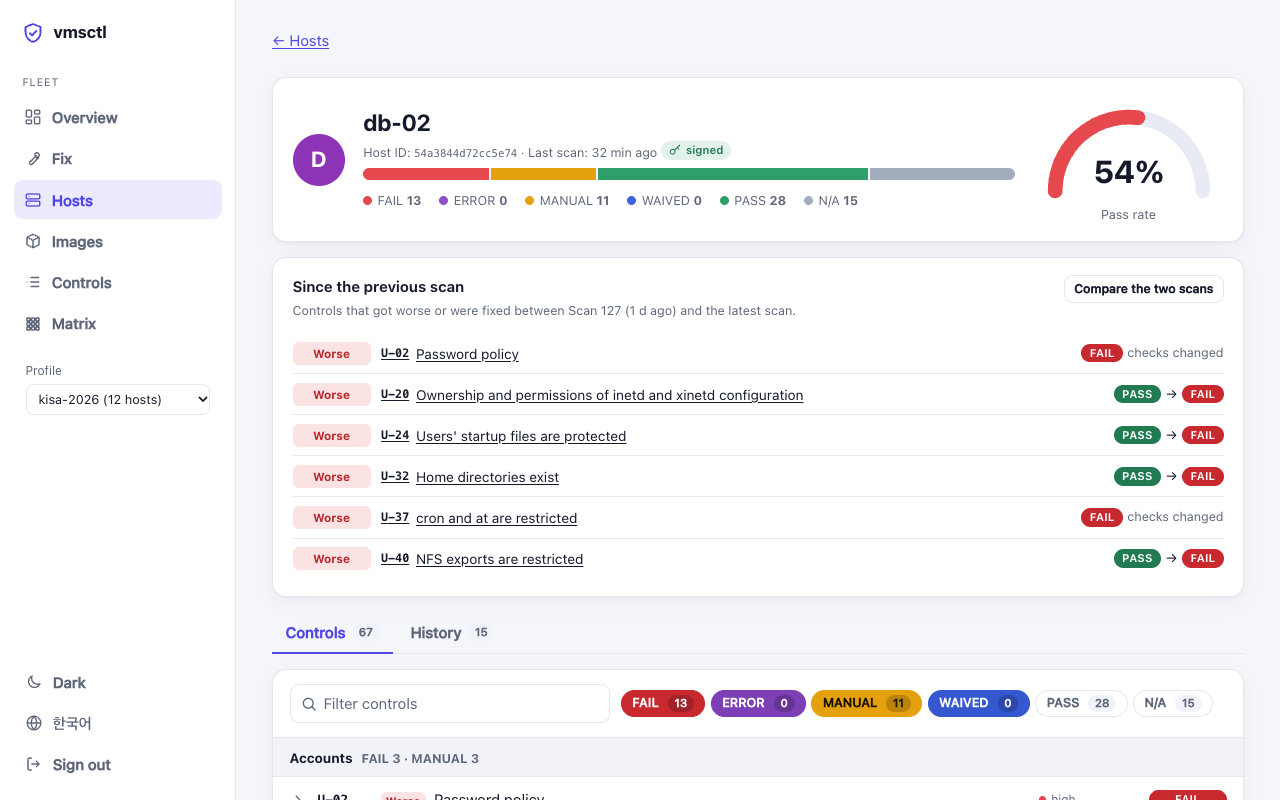
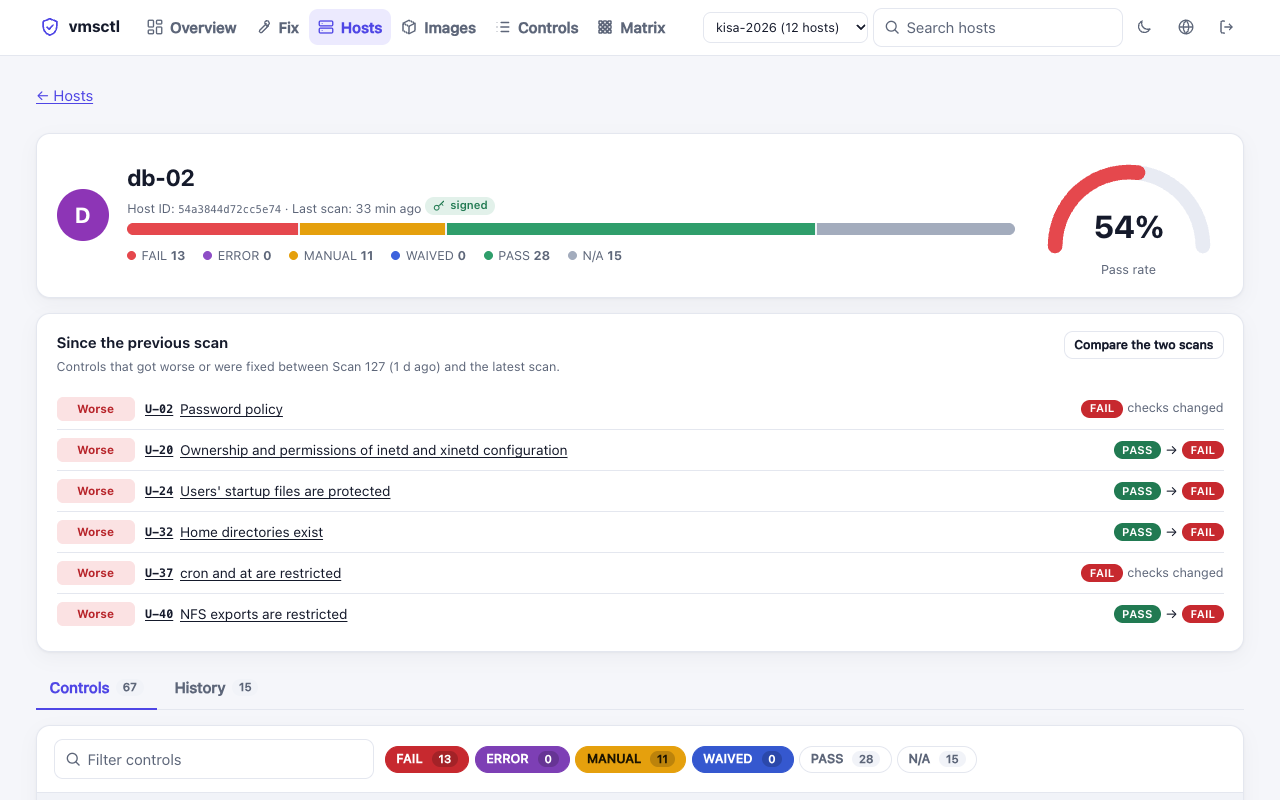
feat: dashboard: top bar instead of the sidebar (#325)
The last step of the dashboard redesign: a top bar instead of the
sidebar, so the pages get the full width.

## What

- **Top bar** (sticky): the brand, the pages (Overview, Fix, Hosts,
Images, Controls, Matrix), and on the right the profile select, a host
search (Enter opens the host list filtered by that text), and theme,
language and sign-out buttons.
- The page is centered under it and up to 1312px wide (the matrix shows
more columns).
- Narrower screens: the language button shows only its icon under
1400px, the search hides under 1180px, and the pages scroll sideways
rather than being covered. On a phone the bar has two rows: the brand
and the settings, then the pages as a tab bar (icon over label, as
before).
- What a page brings into view (a control picked in "since the previous
scan", a comparison of two scans) stays clear of the sticky bar
(`scroll-padding-top`); the remediation page's queue sticks below it.
- Texts that said "sidebar" (the message on a host of another profile,
`docs/fleet.md` and `.ko`) now say the top of the page.
- Screenshots of the six dashboard pages regenerated.

## Tests

- `make test lint`, `make build-web`.
- In the browser: axe clean and no horizontal overflow on the overview,
a host page and the remediation page in en/ko × light/dark × 1280/390;
the click from "since the previous scan" and "Compare the two scans"
still bring their targets into view; the sign-in page is unchanged.

## Review (`/code-review medium`)

Fixed:
[…]

diff --git a/web/src/styles.css b/web/src/styles.css
@@ -58,19 +58,32 @@ ul, ol { margin: 0; }
 .icon { flex: none; }
 
 /* Layout */
-.app { display: grid; grid-template-columns: 236px minmax(0, 1fr); min-height: 100vh; }
-.sidebar { position: sticky; top: 0; height: 100vh; display: flex; flex-direction: column; gap: 1.25rem; padding: 1.1rem .9rem; background: var(--surface); border-right: 1px solid var(--border); }
-.brand { display: flex; align-items: center; gap: .55rem; font-weight: 750; font-size: 1.1rem; color: var(--text); padding: .25rem .5rem; letter-spacing: -0.01em; }
+.app { min-height: 100vh; }
+/* --topbar-h: the sticky top bar's height, which what is brought into view and the remediation queue keep clear of */
+:root { --topbar-h: 4.25rem; }
+html { scroll-padding-top: var(--topbar-h); }
+/* The top bar: the brand, the pages, and on the right the profile, a host search and the settings */
+.topbar { position: sticky; top: 0; z-index: 20; background: var(--surface); border-bottom: 1px solid var(--border); }
+.topbar-in { max-width: 1312px; margin: 0 auto; display: flex; align-items: center; gap: 1rem; padding: .5rem clamp(16px, 3vw, 36px); }
+.brand { display: flex; align-items: center; gap: .5rem; font-weight: 750; font-size: 1.05rem; color: var(--text); padding: .25rem .2rem; letter-spacing: -0.01em; flex: none; }
 .brand .icon { color: var(--accent); }
 .brand:hover { text-decoration: none; }
-.sidebar nav { display: grid; gap: .15rem; }
-.nav-section { font-size: .72rem; text-transform: uppercase; letter-spacing: .08em; color: var(--muted); padding: .4rem .6rem; }
-.sidebar nav a { display: flex; align-items: center; gap: .65rem; padding: .55rem .7rem; border-radius: var(--radius-sm); color: var(--muted); font-weight: 520; }
-.sidebar nav a:hover { background: var(--surface-2); color: var(--text); text-decoration: none; }
-.sidebar nav a[aria-current="page"] { background: var(--accent-soft); color: var(--accent); }
-.sidebar-foot { margin-top: auto; display: grid; gap: .1rem; }
-.sidebar-foot button { display: flex; align-items: center; gap: .65rem; text-align: left; width: 100%; }
-main { padding: 1.6rem clamp(16px, 3vw, 36px) 3rem; max-width: 1240px; width: 100%; min-width: 0; }
+.topnav { display: flex; gap: .1rem; min-width: 0; overflow-x: auto; scrollbar-width: none; } /* too narrow: it scrolls, nothing covers it */
+.topnav a { display: flex; align-items: center; gap: .4rem; padding: .45rem .55rem; border-radius: var(--radius-sm); color: var(--muted); font-weight: 560; white-space: nowrap; }
+.topnav a:hover { background: var(--surface-2); color: var(--text); text-decoration: none; }
+.topnav a[aria-current="page"] { background: var(--accent-soft); color: var(--accent); }
+.topbar-tools { margin-left: auto; display: flex; align-items: center; gap: .3rem; flex: none; }
+.topbar-tools .icon-only { padding: .45rem; }
+.topbar-tools .lang-switch { display: flex; align-items: center; gap: .35rem; white-space: nowrap; }
+.topbar-tools .topsearch { flex: none; min-width: 0; width: 12rem; }
+@media (max-width: 1400px) { .topbar-tools .lang-switch span { display: none; } }
+/* not wide enough for the pages and the settings on one line: the pages go to a second row, with their labels */
+@media (max-width: 1240px) {
+  :root { --topbar-h: 6.9rem; }
+  .topbar-in { flex-wrap: wrap; row-gap: .25rem; }
+  .topnav { order: 3; width: 100%; }
+}
+main { padding: 1.6rem clamp(16px, 3vw, 36px) 3rem; max-width: 1312px; width: 100%; min-width: 0; margin: 0 auto; }
 .pagehead { display: flex; justify-content: space-between; align-items: flex-end; gap: 1rem; margin-bottom: 1.25rem; flex-wrap: wrap; }
 .pagehead p { margin-top: .25rem; }
 .crumb { margin-bottom: .75rem; }
@@ -261,18 +274,17 @@ table.matrix .cell:hover { outline: 2px solid var(--text); outline-offset: 0; }
   .hosthead .gauge { grid-column: 1 / -1; }
 }
 @media (max-width: 760px) {
-  /* a short page must not hand its spare height to the top bar: the rows keep their size and the page ends where it ends */
-  .app { grid-template-columns: minmax(0, 1fr); grid-template-rows: auto 1fr; }
   .hero, .hosthead { min-width: 0; }
   .gauge svg { max-width: 180px; }
   .legend { justify-content: flex-start; }
-  .sidebar { position: static; height: auto; flex-direction: row; flex-wrap: wrap; align-items: center; padding: .6rem .9rem; gap: .5rem; }
-  /* four equal tabs that always fit: icon over label, like a tab bar */
-  .sidebar nav { display: grid; grid-auto-flow: column; grid-auto-columns: 1fr; order: 3; width: 100%; gap: .25rem; }
-  .sidebar nav a { flex-direction: column; gap: .15rem; padding: .45rem .2rem; font-size: .76rem; text-align: center; }
-  .nav-section { display: none; }
-  .sidebar-foot { margin: 0 0 0 auto; display: flex; }
-  .sidebar-foot button span { display: none; }
+  /* two rows: the brand and the settings, then the pages as a tab bar (icon over label, equal widths) */
+  .topbar { position: static; }
+  html { scroll-padding-top: 0; }
+  .topbar-tools .topsearch { display: none; }
+  .topbar-in { flex-wrap: wrap; gap: .5rem; padding: .5rem 16px; }
+  .topnav { order: 3; width: 100%; display: grid; grid-auto-flow: column; grid-auto-columns: 1fr; gap: .2rem; }
+  .topnav a { flex-direction: column; gap: .15rem; padding: .4rem .15rem; font-size: .74rem; justify-content: center; }
+  .topbar-tools .profile-select select { max-width: 7.5rem; }
   .login { grid-template-columns: 1fr; }
   .login-art { display: none; }
   .control-row { grid-template-columns: 16px 3rem 1fr 6.2rem; }
@@ -291,9 +303,8 @@ table.matrix .cell:hover { outline: 2px solid var(--text); outline-offset: 0; }
 }
 @media (prefers-reduced-motion: reduce) { * { animation: none !important; transition: none !important; } }
 
-.profile-select { display: grid; gap: 4px; padding: 0 12px 12px; }
-.profile-select label { font-size: 12px; color: var(--muted); }
-.profile-select select { width: 100%; padding: 6px 8px; border: 1px solid var(--border); border-radius: 8px; background: var(--surface); color: inherit; font: inherit; font-size: .85rem; text-overflow: ellipsis; }
+.profile-select { display: flex; }
+.profile-select select { max-width: 11rem; padding: 6px 8px; border: 1px solid var(--border); border-radius: 8px; background: var(--surface); color: inherit; font: inherit; font-size: .85rem; text-overflow: ellipsis; }
 
 .scannow { display: grid; gap: .35rem; }
 .scannow-main { display: flex; flex-wrap: wrap; align-items: center; gap: .75rem; }
@@ -411,7 +422,7 @@ html[lang="ko"] .evidence, html[lang="ko"] code, html[lang="ko"] .mono { word-br
 .standard .pill { justify-self: start; }
 /* The remediation page: the queue on the left, the chosen control on the right */
 .workbench { display: grid; grid-template-columns: minmax(260px, 340px) minmax(0, 1fr); gap: 1rem; align-items: start; }
-.queue { position: sticky; top: 1rem; max-height: calc(100vh - 2rem); display: flex; flex-direction: column; }
+.queue { position: sticky; top: calc(var(--topbar-h) + .5rem); max-height: calc(100vh - var(--topbar-h) - 1.5rem); display: flex; flex-direction: column; }
 .queue-filters { display: grid; gap: .5rem; padding: .8rem; border-bottom: 1px solid var(--border); }
 .workbench-main .fixhosts-head { margin: 0; padding: .9rem 1.1rem .5rem; font-size: .95rem; }
 .queue-filters .search { width: 100%; }

diff --git a/web/src/App.tsx b/web/src/App.tsx
@@ -3,7 +3,8 @@ import { api, setUnauthorizedHandler } from "./lib/api";
 import { useAsync, useHash } from "./lib/hooks";
 import { ProfileProvider, useProfile } from "./lib/profile";
 import { useI18n } from "./lib/i18n";
-import { parseRoute } from "./lib/format";
+import { hostsAddress, imagesAddress, parseHostsView, parseImagesView, parseRoute } from "./lib/format";
+import { lastListAddress } from "./lib/listAddress";
 import { Login } from "./pages/Login";
 import { OverviewPage } from "./pages/Overview";
 import { HostsPage } from "./pages/Hosts";
@@ -12,7 +13,7 @@ import { MatrixPage } from "./pages/Matrix";
 import { ImagesPage } from "./pages/Images";
 import { ControlPage, ControlsPage } from "./pages/Controls";
 import { FixPage } from "./pages/Fix";
-import { IconBox, IconGlobe, IconGrid, IconList, IconLogout, IconMoon, IconOverview, IconServer, IconShield, IconSun, IconWrench } from "./components/icons";
+import { IconBox, IconGlobe, IconGrid, IconList, IconLogout, IconMoon, IconOverview, IconSearch, IconServer, IconShield, IconSun, IconWrench } from "./components/icons";
 
 type Auth = "checking" | "in" | "out" | "failed";
 
@@ -102,7 +103,7 @@ export function App() {
   );
 }
 
-/** The sidebar and the page, once the person is signed in and the profiles are known. */
+/** The top bar and the page, once the person is signed in and the profiles are known. */
 function Shell({ hash, dark, toggleTheme, logout }: { hash: string; dark: boolean; toggleTheme: () => void; logout: () => void }) {
   const { t, toggle } = useI18n();
   const { list, selected, select } = useProfile();
@@ -120,6 +121,7 @@ function Shell({ hash, dark, toggleTheme, logout }: { hash: string; dark: boolea
   else if (page === "fix") view = <FixPage profile={arg} id={arg2} />;
   else view = <OverviewPage />;
   const current = page === "hosts" || page === "matrix" || page === "controls" || page === "images" || page === "fix" ? page : "overview";
+  const searchImages = current === "images"; // on the images, the top search looks for images
 
   const nav: [string, string, string, JSX.Element][] = [
     ["overview", "#/", t("nav.overview"), <IconOverview key="o" />],
@@ -133,49 +135,66 @@ function Shell({ hash, dark, toggleTheme, logout }: { hash: string; dark: boolea
 
   return (
     <div className="app">
-      <aside className="sidebar">
-        <a className="brand" href="#/">
-          <IconShield size={24} />
-          <span>{t("app.name")}</span>
-        </a>
-        <nav aria-label={t("nav.section")}>
-          <span className="nav-section">{t("nav.section")}</span>
-          {nav.map(([key, href, label, icon]) => (
-            <a key={key} href={href} aria-current={current === key ? "page" : undefined}>
-              {icon}
-              <span>{label}</span>
-            </a>
-          ))}
-        </nav>
-        {list && list.profiles.length > 1 && (
-          <div className="profile-select">
-            <label htmlFor="profile">{t("profile.label")}</label>
-            <select id="profile" value={selected} onChange={(e) => select(e.target.value)}>
-              {list.profiles.map((p) => (
-                <option key={p.id} value={p.id}>
-                  {p.id} ({t("profile.hosts", { n: p.fleet?.hosts ?? p.hosts })})
-                </option>
-              ))}
-            </select>
-          </div>
-        )}
-        <div className="sidebar-foot">
-          <button className="ghost" onClick={toggleTheme} aria-label={dark ? t("theme.light") : t("theme.dark")} title={dark ? t("theme.light") : t("theme.dark")}>
-            {dark ? <IconSun /> : <IconMoon />}
-            <span>{dark ? t("theme.light") : t("theme.dark")}</span>
-          </button>
-          <button className="ghost" onClick={toggle} aria-label={t("lang.switch")} title={t("lang.switch")}>
-            <IconGlobe />
-            <span>{t("lang.switch")}</span>
-          </button>
-          {!DEMO && (
-            <button className="ghost" onClick={logout} aria-label={t("nav.logout")} title={t("nav.logout")}>
-              <IconLogout />
-              <span>{t("nav.logout")}</span>
+      <header className="topbar">
+        <div className="topbar-in">
+          <a className="brand" href="#/">
+            <IconShield size={22} />
+            <span>{t("app.name")}</span>
+          </a>
+          <nav className="topnav" aria-label={t("nav.section")}>
+            {nav.map(([key, href, label, icon]) => (
+              <a key={key} href={href} aria-current={current === key ? "page" : undefined}>
+                {icon}
+                <span>{label}</span>
+              </a>
+            ))}
+          </nav>
+          <div className="topbar-tools">
+            {list && list.profiles.length > 1 && (
+              <div className="profile-select">
+                <label htmlFor="profile" className="sr-only">
+                  {t("profile.label")}
+                </label>
+                <select id="profile" value={selected} onChange={(e) => select(e.target.value)} title={t("profile.label")}>
+                  {list.profiles.map((p) => (
+                    <option key={p.id} value={p.id}>
+                      {p.id} ({t("profile.hosts", { n: p.fleet?.hosts ?? p.hosts })})
+                    </option>
+                  ))}
+                </select>
+              </div>
+            )}
+            <form
+              className="topsearch search"
+              role="search"
+              onSubmit={(e) => {
+                e.preventDefault();
+                const q = String(new FormData(e.currentTarget).get("q") ?? "").trim();
+                // the list's own filters stay; the list's search box takes the text from here, so this one empties
+                location.hash = searchImages
+                  ? imagesAddress({ ...parseImagesView(lastListAddress("images")), q })
+                  : hostsAddress({ ...parseHostsView(lastListAddress("hosts")), q });
+                e.currentTarget.reset();
+              }}
+            >
+              <IconSearch />
+              <input type="search" name="q" placeholder={t(searchImages ? "top.searchImages" : "top.search")} aria-label={t(searchImages ? "top.searchImages" : "top.search")} />
+            </form>
+            <button className="ghost icon-only" onClick={toggleTheme} aria-label={dark ? t("theme.light") : t("theme.dark")} title={dark ? t("theme.light") : t("theme.dark")}>
+              {dark ? <IconSun /> : <IconMoon />}
             </button>
-          )}
+            <button className="ghost lang-switch" onClick={toggle} aria-label={t("lang.switch")} title={t("lang.switch")}>
+              <IconGlobe />
+              <span>{t("lang.switch")}</span>
+            </button>
+            {!DEMO && (
+              <button className="ghost icon-only" onClick={logout} aria-label={t("nav.logout")} title={t("nav.logout")}>
+                <IconLogout />
+              </button>
+            )}
+          </div>
         </div>
-      </aside>
+      </header>
       <main key={selected}>
         {DEMO && (
           <p className="demo-banner" role="note">

diff --git a/web/src/lib/i18n.tsx b/web/src/lib/i18n.tsx
@@ -6,6 +6,8 @@ const en = {
   "app.name": "vmsctl",
   "nav.overview": "Overview",
   "nav.fix": "Fix",
+  "top.search": "Search hosts",
+  "top.searchImages": "Search images",
   "fix.title": "Fix",
   "fix.subtitle": "The failing controls in the order to fix them, with how to fix each and the hosts to fix it on.",
   "fix.queue": "Controls to fix",
@@ -180,7 +182,7 @@ const en = {
   "profile.hosts": "{n} hosts",
   "profile.other": "{n} hosts scanned with another profile are not counted here. Pick that profile to see them.",
   "profile.otherHost": "another profile",
-  "profile.hostOther": "The latest scan of this host is of {profiles}. Choose that profile in the sidebar to see its controls.",
+  "profile.hostOther": "The latest scan of this host is of {profiles}. Choose that profile at the top of the page to see its controls.",
   "hosts.sortBy": "Sort",
   "hosts.more": "Show more",
   "hosts.showing": "Showing {n} of {total}",
@@ -222,6 +224,8 @@ const ko: Record<Key, string> = {
   "app.name": "vmsctl",
   "nav.overview": "개요",
   "nav.fix": "조치",
+  "top.search": "호스트 검색",
+  "top.searchImages": "이미지 검색",
   "fix.title": "조치",
   "fix.subtitle": "실패한 점검 항목을 고칠 순서대로 놓고, 항목마다 고치는 방법과 고칠 호스트를 함께 보여 줍니다.",
   "fix.queue": "고칠 점검 항목",
@@ -396,7 +400,7 @@ const ko: Record<Key, string> = {
   "profile.hosts": "호스트 {n}대",
   "profile.other": "다른 프로파일로 스캔한 호스트 {n}대는 여기에 집계하지 않습니다. 그 프로파일을 고르면 볼 수 있습니다.",
   "profile.otherHost": "다른 프로파일",
-  "profile.hostOther": "이 호스트의 최신 스캔은 {profiles} 프로파일 기준입니다. 사이드바에서 해당 프로파일을 고르면 점검 항목을 볼 수 있습니다.",
+  "profile.hostOther": "이 호스트의 최신 스캔은 {profiles} 프로파일 기준입니다. 화면 위쪽에서 해당 프로파일을 고르면 점검 항목을 볼 수 있습니다.",
   "hosts.sortBy": "정렬",
   "hosts.more": "더 보기",
   "hosts.showing": "{total}대 중 {n}대 표시",

diff --git a/README.ko.md b/README.ko.md
@@ -1,4 +1,4 @@
-<!-- translated from README.md @ 0917488 -->
+<!-- translated from README.md @ 4450d37 -->
 # vmsctl
 
 [![CI](https://github.com/with-developer/vmsctl/actions/workflows/ci.yml/badge.svg)](https://github.com/with-developer/vmsctl/actions/workflows/ci.yml)
@@ -63,7 +63,7 @@ kisa-2026: 67 controls — 10 FAIL, 11 MANUAL, 29 PASS, 17 NOT_APPLICABLE
 호스트가 스스로 점검하고 결과를 `vmsctl server`로 보내면, 서버가 이력을 쌓아 두고 웹 대시보드로
 보여 줍니다. 영어와 한국어, 라이트·다크 테마, 휴대폰 화면을 지원합니다.
 
-![vmsctl 대시보드 투어: 개요, 호스트, 근거와 조치 방법이 있는 호스트, 점검 항목, 매트릭스, 한국어](docs/demo/dashboard-tour.gif)
+![vmsctl 대시보드 투어: 먼저 고칠 것과 기준별 현황이 있는 개요, 조치 화면, 호스트의 지난 스캔 이후 변화와 근거, 점검 항목, 매트릭스, 한국어](docs/demo/dashboard-tour.gif)
 
 ```sh
 vmsctl server demo      # 가상의 호스트 12대로 둘러보기. 실제로 점검하거나 저장하지 않습니다. 출력된 주소를 여세요

diff --git a/docs/fleet.md b/docs/fleet.md
@@ -251,7 +251,7 @@ your proxy: check it against its documentation. Things to know:
 Hosts may scan with different profiles (`--profile`, `essentials`, a policy pack), so every number of the dashboard is of
 **one profile**: the overview, the host list, the matrix and the control list take `?profile=ID` and, without it, use the
 profile that most hosts scanned with (**a script that read these calls without `profile` before v0.19 now reads one profile: pass `?profile=all` for every profile added up, as before**). A host whose latest scan has none of its controls is not counted in the numbers (a silent host is still counted as stale, whatever it scanned with): the dashboard
-says how many such hosts there are and marks them in the list. In the dashboard a selector in the sidebar picks the
+says how many such hosts there are and marks them in the list. In the dashboard a selector in the top bar picks the
 profile (and remembers it) when there is more than one.
 
 A read token (`--scope api`) lets a script or CI ask the server what it knows:

diff --git a/docs/fleet.ko.md b/docs/fleet.ko.md
@@ -1,4 +1,4 @@
-<!-- translated from docs/fleet.md @ 0917488 -->
+<!-- translated from docs/fleet.md @ 1c47549 -->
 # 서버로 모아 보기
 
 > 설계는 [ADR 0010](adr/0010-fleet-server-and-dashboard.md)에 있습니다. 호스트가 결과를 보내고, 서버가 저장해 두었다가 조회
@@ -288,7 +288,7 @@ server {
 
 최신 스캔에 그 프로파일의 점검 항목이 하나도 없는 호스트는 숫자에 넣지 않습니다(보고를 멈춘 호스트는 어떤
 프로파일로 스캔했든 보고가 끊긴(stale) 호스트로 셉니다). 대시보드는 이런 호스트가 몇 대인지 알려 주고 목록에 표시합니다.
-프로파일이 둘 이상이면 사이드바의 선택기로 프로파일을 고르고, 고른 값은 기억합니다.
+프로파일이 둘 이상이면 화면 위쪽의 선택기로 프로파일을 고르고, 고른 값은 기억합니다.
 
 조회 토큰(`--scope api`)이 있으면 스크립트나 CI에서도 서버가 아는 것을 물어볼 수 있습니다.
 

diff --git a/README.md b/README.md
@@ -62,7 +62,7 @@ telnet service added (the host name is shortened).
 Hosts scan themselves and push the result to `vmsctl server`, which keeps the history and shows the
 fleet in a web dashboard (English and Korean, light and dark, fits a phone):
 
-![A tour of the vmsctl dashboard: overview, hosts, a host with evidence and how to fix it, a control, the matrix, Korean](docs/demo/dashboard-tour.gif)
+![A tour of the vmsctl dashboard: the overview with what to fix first and each standard, the remediation page, what changed on a host since its previous scan and the evidence, a control, the matrix, Korean](docs/demo/dashboard-tour.gif)
 
 ```sh
 vmsctl server demo      # a made-up fleet of twelve hosts, nothing scanned, nothing written: open the address it prints
